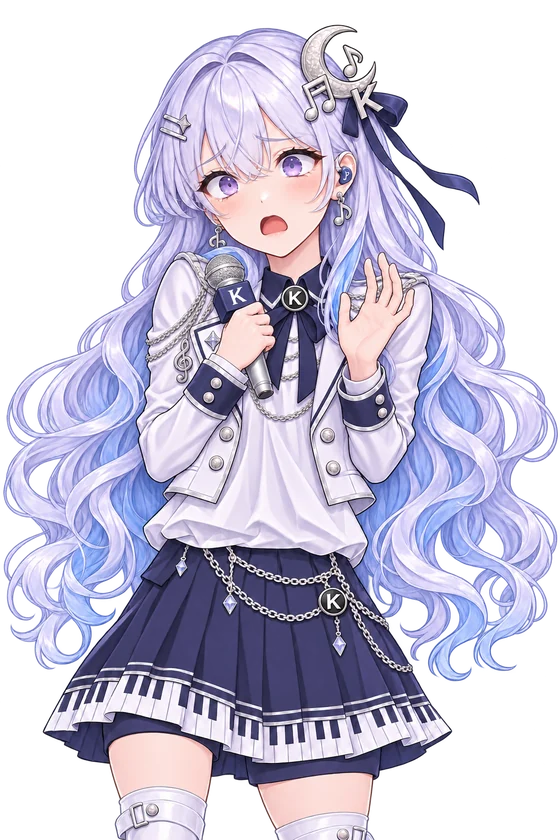
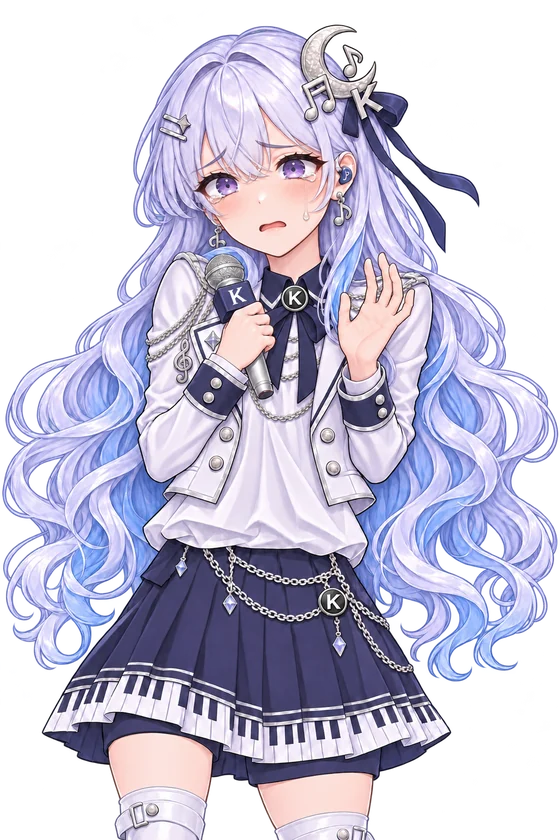
v56.1: Harness 上线演出不能跳过（点屏幕 / Esc 都不收，去掉「点一下跳过」，两场撞上时后一场等前一场演完）；Kimi「巡演」得意改成双眼睁开的闭嘴坏笑、受伤改成含泪哭泣

diff --git a/js/ui.js b/js/ui.js
@@ -961,10 +961,10 @@ window.UI = (function () {
   }
   // v48 上线演出（改版：以立绘为主）：
   //   玩家自己上线——浅色薄纱上大立绘居中，镜头慢推（整张等比放大，不扭曲）→ 切到第 2 帧 + 身后光点散开 + 配音 + 眨眼；
-  //   旁边全息小屏打部署命令，「XX 上线！」章在一侧。点一下 / Esc 跳过。电脑上线——只用第 2 帧，半屏切入约 1 秒（同技能切入）
-  let deploySkip = null, deployCur = null;   // deploySkip：现在能跳的那场；deployCur：还没收尾的那场（v49 同一时间只留一场）
+  //   旁边全息小屏打部署命令，「XX 上线！」章在一侧。v56 不能跳过，要完整播完，点屏幕 / Esc 都不收。电脑上线——只用第 2 帧，半屏切入约 1 秒（同技能切入）
+  let deploySkip = null, deployCur = null, deployEnd = null;   // deploySkip：现在挡着对局的那场（v56 只用来吞 Esc，不再能跳）；deployCur：还没收尾的那场（v49 同一时间只留一场）；deployEnd：它彻底演完的 Promise
   let hzPre = [];                                                       // v49 每个座位预载好的上线立绘（差 1 格时建，演完换成 1 = 不再预载）
-  function skipDeploy() { if (!deploySkip) return false; deploySkip(); return true; }   // v49 返回跳没跳：Esc 按它判断（原来查旧类名 .dshow 永远查不到，Esc 还会落到应答框变成「不出」）
+  function skipDeploy() { return !!deploySkip; }   // v56 演出不能跳过：演出挡着对局时 Esc 只吞掉（返回 true），不让它落到底下的应答框变成「不出」（v49 原来这里会把演出收掉）
   const HZ_BLINK = ["claude", "gemini", "deepseek", "doubao", "kimi", "grok", "qwen", "xds", "xds_cl", "minimax", "muse"];   // 有眨眼帧的（GPT / GLM 合成不自然，不眨）
   // v50 神级皮肤（g1）开大招：换成神皮造型的上线立绘 + 专属开场 + 专属台词（deploy_g1）
   // v51 一人可以有不止一套神皮（Claude 第二套 g2「Fable·许愿之神」）：GOD 按角色列出神皮 id，godId 返回现在穿的那套（不是神皮返回 ""）
@@ -1463,7 +1463,7 @@ window.UI = (function () {
   }
   function deployShow(p, cmd, name) {
     if (!(Engine.speed > 0)) return Promise.resolve(false);
-    if (deployCur) deployCur();                                         // v49 上一场还没收尾（电脑上线提前放行时会出现）：先收掉，同一时间只留一场——不然两场会互相拆掉压 BGM、灰座位这些状态
+    if (deployCur && deployEnd) return deployEnd.then(() => deployShow(p, cmd, name));   // v56 上一场还没收尾（电脑上线提前放行时会出现）：等它演完再开这一场（v49 原来是把上一场提前收掉）——同一时间只留一场，不然两场会互相拆掉压 BGM、灰座位这些状态
     const key = hzKey(p), sp = 1, hero = heroes[p.i];   // 大招固定 3 秒，不跟加速   // 玩家自己的大招固定时长，不跟加速
     const tc = key === "xds_cl" ? window.GAME_DATA.chars.claude : p.ch;   // 小DeepSeek 套壳时用 Claude 的橙色
     const box = el("div", "ult"); box.style.setProperty("--c", tc.color); box.style.setProperty("--l", tc.light || "#fff");
@@ -1479,15 +1479,16 @@ window.UI = (function () {
     const fb = `onerror="this.onerror=null;this.src='${portrait(p.key, "pose")}'"`;   // v49 上线立绘没下载到（或还没画）就用全身立绘兜底，不让大招出现空白
     box.innerHTML = `<div class="ult-veil"></div><canvas class="ult-pt"></canvas><div class="ult-stage"><div class="ult-rays"></div><div class="ult-emb"></div><div class="ult-ring"></div><div class="ult-ring r2"></div><img class="ult-ghost" src="${hzImg(p, "b")}" alt="" ${fb}>
       <img class="ult-a" src="${hzImg(p, "a")}" alt="" ${fb}><img class="ult-b" src="${hzImg(p, "b")}" alt="" ${fb}>${HZ_BLINK.includes(key) && !godSkin(p) ?`<img class="ult-bl" src="${hzImg(p, "b_blink")}" alt="">` : ""}</div>
-      <div class="ult-flash"></div><div class="ult-edge"></div><div class="ds-skip">点一下跳过</div>`;
+      <div class="ult-flash"></div><div class="ult-edge"></div>`;   // v56 去掉「点一下跳过」
     const gid = godId(p), ek = gid && ULT[key + "_" + gid] ? key + "_" + gid : key;   // 神级皮肤有自己的纹章 / 粒子就换上
     try { box.querySelector(".ult-emb").appendChild(emblem(ek, tc.color, 640)); } catch (e) { console.error(e); }   // v51 装饰出错不能卡住对局：纹章 / 粒子画不出来就不画（原来抛错时罩子留在屏幕上，整局点不动）
     let pt; try { pt = particles(box.querySelector(".ult-pt"), ek, tc.color); } catch (e) { console.error(e); pt = { gather() {}, burst() {}, home() {}, drift() {}, stop() {} }; }
     const others = heroes.filter((h, k) => h && k !== p.i);
     // v51 演出完整播完、上线台词说完整：原来固定 3 秒就收，台词（2.7–5.9 秒）才说到一半，对局接着走、她的下一句话还会把它打断。
-    //   现在技能名砸下之后发动帧留在屏幕上（镜头慢推、身边飘粒子、再眨一次眼），等台词说完 0.3 秒才收尾；玩家和电脑一样。关了配音就照旧 3 秒。点一下 / Esc 仍可跳过
+    //   现在技能名砸下之后发动帧留在屏幕上（镜头慢推、身边飘粒子、再眨一次眼），等台词说完 0.3 秒才收尾；玩家和电脑一样。关了配音就照旧 3 秒。v56 不能跳过
     const lk = key === "xds_cl" && p.ch.lines.wish ? "wish" : gid && (p.ch.lines["deploy_" + gid] || []).length ? "deploy_" + gid : "deploy";
     const voiceOn = !!(Sound.S && Sound.S.sfx && Sound.S.voiceVol > 0), LINE_AT = 1820, outAt = (ms) => Math.min(9000, Math.max(2600, LINE_AT + ms + 300));   // 收尾开始的时刻（毫秒，从演出开始算）
+    let endRes; deployEnd = new Promise((r) => { endRes = r; });
     return new Promise((res) => {
       let over = false, tailed = false, said = false;
       // v49 收尾只执行一次、结束时补一次：原来收尾嵌在 2.6 秒的定时器里，早点跳过（或慢机上 3 秒的结束定时器先到）就丢了「部署成功」和换曲
@@ -1500,9 +1501,9 @@ window.UI = (function () {
         if (deploySkip === done) deploySkip = null; if (deployCur === done) deployCur = null;
         line(); if (!tailed && Sound.sfxFade) Sound.sfxFade(th, 300); tail(300); hzPre[p.i] = 1;                                         // 预载的立绘用完了，放掉（每张解码后约 4 MB）
         others.forEach((h) => h.classList.remove("ult-grey")); seatOn(); Sound.hold(false); document.body.classList.remove("ult-on");
-        box.classList.add("out"); box.style.pointerEvents = "none"; setTimeout(() => box.remove(), 350); res(true);
+        box.classList.add("out"); box.style.pointerEvents = "none"; setTimeout(() => box.remove(), 350); res(true); endRes();
       };
-      deploySkip = deployCur = done; box.onclick = (e) => { e.stopPropagation(); done(); };
+      deploySkip = deployCur = done; box.onclick = (e) => { e.stopPropagation(); };   // v56 点了不跳（只挡住，免得点到底下的牌）
       // ① 时停 0.3 s
       Sound.hold(true); Sound.sfx("ult_charge", 0.7); others.forEach((h) => h.classList.add("ult-grey"));
       pt.gather(hc.x, hc.y, 45);

diff --git a/js/main.js b/js/main.js
@@ -537,7 +537,7 @@ window.Main = (function () {
       const done = () => { e.preventDefault(); e.stopImmediatePropagation(); };
       if (!$("#rules").classList.contains("hidden")) { closeRules(); done(); return; }
       if ($("#report")) { $("#report .rp-x").click(); done(); return; }
-      if ($("#modal").classList.contains("hidden") && UI.skipDeploy()) { done(); return; }   // v48 上线演出：Esc 跳过（v49 按「真的跳了」判断：原来查旧类名永远不中，Esc 会落到应答框变成「不出」；设置等窗口开着时先关窗口）   // v43 战报卡：Esc 只关战报，回到结算框
+      if ($("#modal").classList.contains("hidden") && UI.skipDeploy()) { done(); return; }   // v48 上线演出：Esc 跳过（v56 改成不能跳，演出挡着时 Esc 只吞掉；v49 按「真的跳了」判断：原来查旧类名永远不中，Esc 会落到应答框变成「不出」；设置等窗口开着时先关窗口）   // v43 战报卡：Esc 只关战报，回到结算框
       const md = $("#modal");
       if (!md.classList.contains("hidden")) {
         if ($("#modal-close").style.display !== "none") md.classList.add("hidden");

diff --git a/css/style.css b/css/style.css
@@ -1023,7 +1023,7 @@ kbd { font-family: var(--sans); font-size: 13px; font-weight: 800; background: #
 
 /* v48 大招演出 */
 .ult { position: absolute; inset: 0; z-index: 72; pointer-events: none; overflow: hidden; }
-.ult:not(.lite) { pointer-events: auto; cursor: pointer; }
+.ult:not(.lite) { pointer-events: auto; }                       /* v56 不能跳过：照样挡住点击，但不再显示手形光标 */
 .ult.out { opacity: 0; transition: opacity .3s; pointer-events: none; }
 .ult.rel { pointer-events: none; cursor: auto; }                      /* v49 电脑上线放行后：罩子不再吃点击，薄纱先淡掉，底下的对局看得见 */
 .ult.rel .ult-veil, .ult.rel.s3 .ult-veil, .ult.rel .ult-edge { opacity: 0; transition: opacity .3s; }   /* .rel.s3：要压过后面 .ult.s3 .ult-veil 的 transition */
